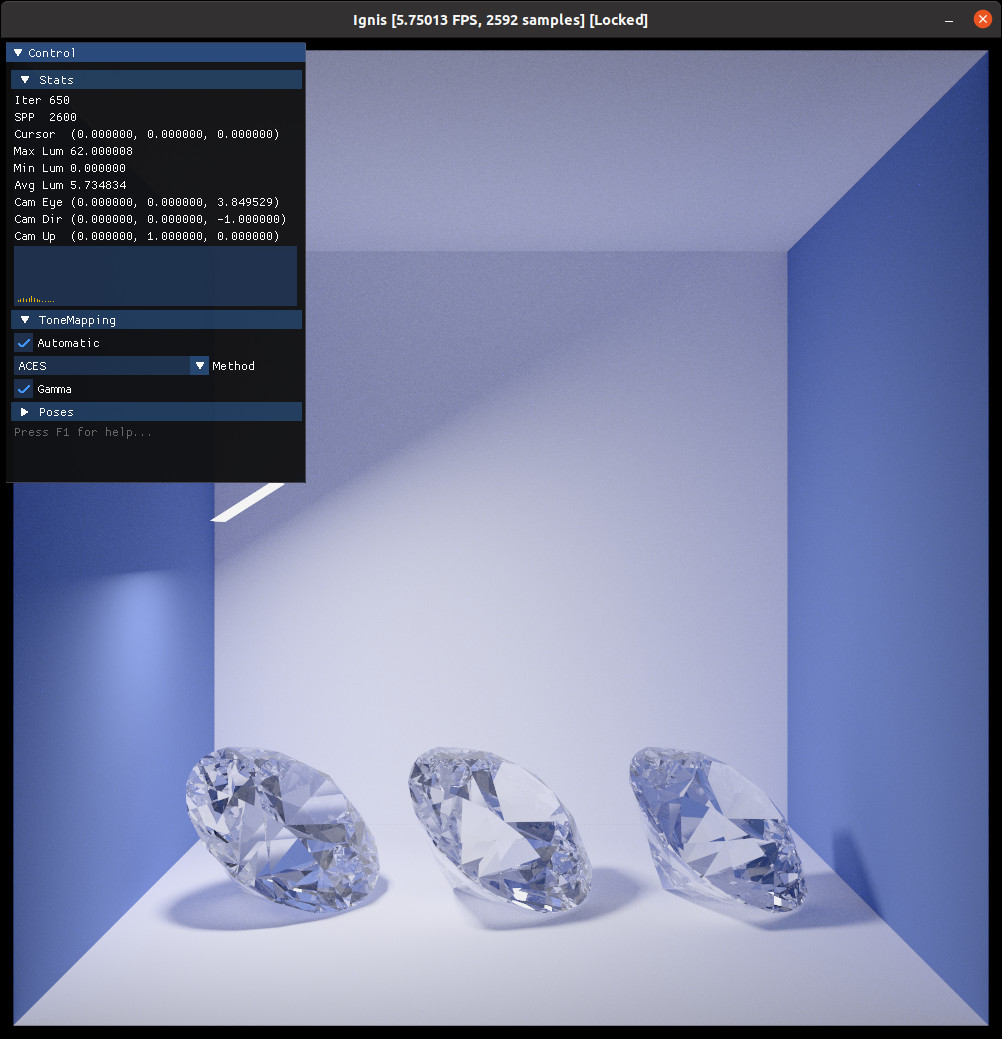
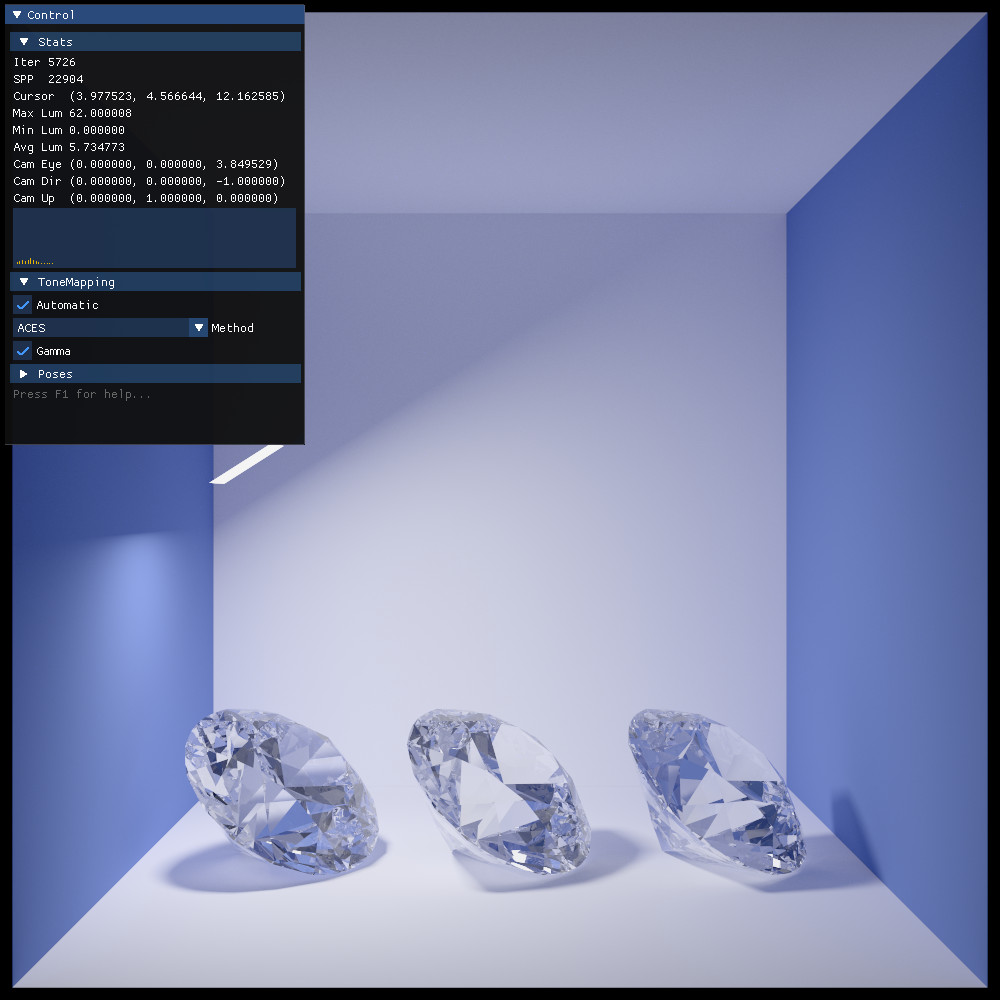
Added cool UI including screenshot function

diff --git a/src/frontend/viewer/UI.cpp b/src/frontend/viewer/UI.cpp
@@ -46,12 +46,12 @@ struct LuminanceInfo {
 	}
 };
 
-static int sPoseRequest		   = -1;
-static bool sPoseResetRequest  = false;
-static bool sScreenshotRequest = false;
-static bool sShowHelp		   = false;
-static bool sShowUI			   = true;
-static bool sLockInteraction   = false;
+static int sPoseRequest		  = -1;
+static bool sPoseResetRequest = false;
+static int sScreenshotRequest = 0; // 0-Nothing, 1-Screenshot, 2-Full screenshot
+static bool sShowHelp		  = false;
+static bool sShowUI			  = true;
+static bool sLockInteraction  = false;
 
 // Stats
 static LuminanceInfo sLastLum;
@@ -293,7 +293,10 @@ static bool handle_events(uint32_t& iter, bool& run, Camera& cam)
 					sLockInteraction = !sLockInteraction;
 					break;
 				case SDLK_F11:
-					sScreenshotRequest = true;
+					if (io.KeyCtrl)
+						sScreenshotRequest = 2;
+					else
+						sScreenshotRequest = 1;
 					break;
 				}
 			}
@@ -647,6 +650,74 @@ static void make_screenshot(size_t width, size_t height, uint32_t iter)
 		IG_LOG(L_INFO) << "Screenshot saved to '" << out_file.str() << "'" << std::endl;
 }
 
+static void make_full_screenshot()
+{
+	std::stringstream out_file;
+	auto now	   = std::chrono::system_clock::now();
+	auto in_time_t = std::chrono::system_clock::to_time_t(now);
+	out_file << "screenshot_full_" << std::put_time(std::localtime(&in_time_t), "%Y_%m_%d_%H_%M_%S") << ".png";
+
+#if SDL_BYTEORDER == SDL_BIG_ENDIAN
+	Uint32 rmask = 0xff000000;
+	Uint32 gmask = 0x00ff0000;
+	Uint32 bmask = 0x0000ff00;
+	Uint32 amask = 0x000000ff;
+#else
+	Uint32 rmask = 0x000000ff;
+	Uint32 gmask = 0x0000ff00;
+	Uint32 bmask = 0x00ff0000;
+	Uint32 amask = 0xff000000;
+#endif
+
+	SDL_Surface* sshot = SDL_CreateRGBSurface(0, sWidth, sHeight, 32,
+											  rmask, gmask, bmask, amask);
+
+	if (!sshot) {
+		IG_LOG(L_ERROR) << "Failed to save PNG file '" << out_file.str() << "': " << SDL_GetError() << std::endl;
+		return;
+	}
+
+	int ret = SDL_LockSurface(sshot);
+	if (ret != 0) {
+		IG_LOG(L_ERROR) << "Failed to save PNG file '" << out_file.str() << "': " << SDL_GetError() << std::endl;
+		return;
+	}
+
+	ret = SDL_RenderReadPixels(sRenderer, nullptr, sshot->format->format,
+							   sshot->pixels, sshot->pitch);
+	if (ret != 0) {
+		IG_LOG(L_ERROR) << "Failed to save PNG file '" << out_file.str() << "': " << SDL_GetError() << std::endl;
+		return;
+	}
+
+	float* rgba = new float[sWidth * sHeight * 4];
+	for (size_t y = 0; y < sHeight; ++y) {
+		const uint8* src = reinterpret_cast<const uint8*>(sshot->pixels) + y * sshot->pitch;
+		float* dst		 = rgba + y * sWidth * 4;
+		for (size_t x = 0; x < sWidth; ++x) {
+			uint32 pixel = *reinterpret_cast<const uint32*>(&src[x * sshot->format->BytesPerPixel]);
+
+			uint8 r, g, b, a;
+			SDL_GetRGBA(pixel, sshot->format, &r, &g, &b, &a);
+
+			dst[x * 4 + 0] = r / 255.0f;
+			dst[x * 4 + 1] = g / 255.0f;
+			dst[x * 4 + 2] = b / 255.0f;
+			dst[x * 4 + 3] = a / 255.0f;
+		}
+	}
+
+	SDL_UnlockSurface(sshot);
+	SDL_FreeSurface(sshot);
+
+	if (!saveImageRGBA(out_file.str(), rgba, sWidth, sHeight, 1))
+		IG_LOG(L_ERROR) << "Failed to save PNG file '" << out_file.str() << "'" << std::endl;
+	else
+		IG_LOG(L_INFO) << "Screenshot saved to '" << out_file.str() << "'" << std::endl;
+
+	delete[] rgba;
+}
+
 ////////////////////////////////////////////////////////////////
 
 bool init(int width, int height, const float* pixels, bool showDebug)
@@ -847,7 +918,8 @@ static void handle_help()
 - *F2* to toggle the UI.
 - *F3* to toggle the interaction lock. 
   If enabled, no view changing interaction is possible.
-- *F11* to save a screenshot.
+- *F11* to save a snapshot of the current rendering. HDR information will be preserved.
+  Use with *Strg/Ctrl* to make a LDR screenshot of the current render including UI and tonemapping.  
   The image will be saved in the current working directory.
 - *R* to reset to initial view.
 - *P* to pause current rendering. Also implies an interaction lock.
@@ -885,9 +957,17 @@ static void handle_help()
 void update(uint32_t iter)
 {
 	update_texture(sBuffer.data(), sTexture, sWidth, sHeight, iter);
-	if (sScreenshotRequest) {
+	switch (sScreenshotRequest) {
+	case 1:
 		make_screenshot(sWidth, sHeight, iter);
-		sScreenshotRequest = false;
+		sScreenshotRequest = 0;
+		break;
+	case 2:
+		make_full_screenshot();
+		sScreenshotRequest = 0;
+		break;
+	default:
+		break;
 	}
 	SDL_RenderClear(sRenderer);
 	SDL_RenderCopy(sRenderer, sTexture, nullptr, nullptr);

diff --git a/README.md b/README.md
@@ -103,7 +103,7 @@ The Ignis Rodent client has an optional UI and multiple ways to interact with th
  - `F1` to toggle the help window.
  - `F2` to toggle the UI.
  - `F3` to toggle the interaction lock. If enabled, no view changing interaction is possible.
- - `F11` to save a screenshot. The image will be saved in the current working directory.
+ - `F11` to save a snapshot of the current rendering. HDR information will be preserved. Use with `Strg/Ctrl` to make a LDR screenshot of the current render including UI and tonemapping. The image will be saved in the current working directory.
  - `R` to reset to initial view.
  - `P` to pause current rendering. Also implies an interaction lock.
  - `T` to toggle automatic tonemapping.
